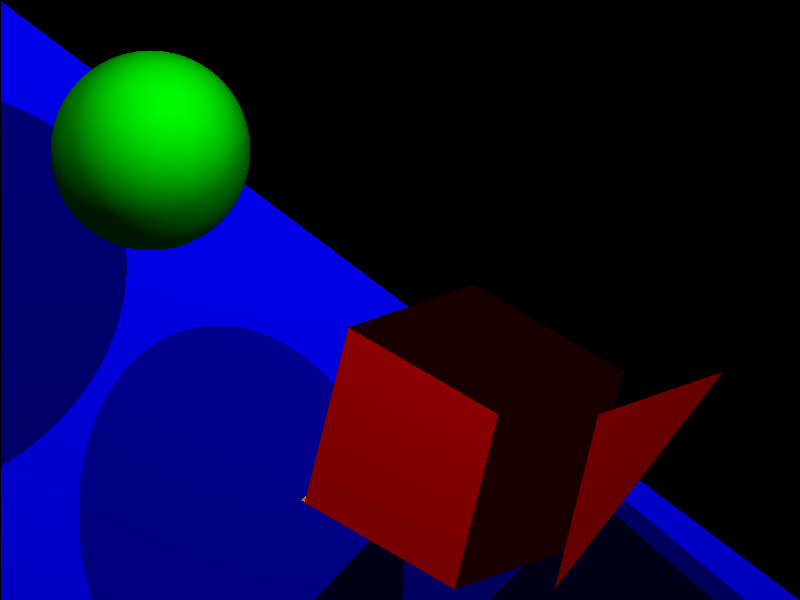
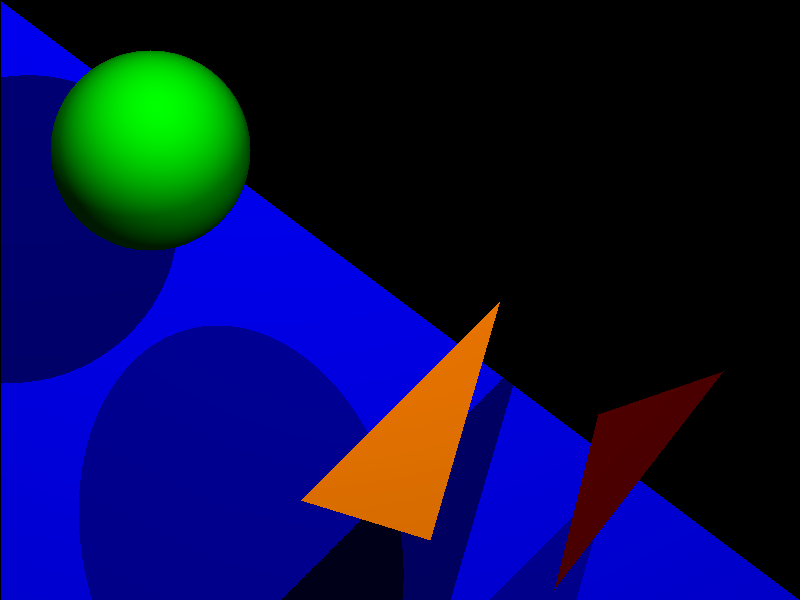
generalize implementation for both triangles and spheres

Changed region(s): [[0.3438, 0.48, 0.9375, 1.0], [0.0, 0.12, 0.2188, 0.6], [0.0, 0.6, 0.125, 0.78]]

diff --git a/Commons/RayTracer.cs b/Commons/RayTracer.cs
@@ -23,12 +23,7 @@ public class RayTracer(List<IObject3D> sceneObjects, List<LightSource> lightSour
                 nearestIntersection = intersectionDistance;
                 var intersectionPoint = CalcHelper.IntersectionPoint(ray, intersectionDistance);
 
-                color = sceneObject switch
-                {
-                    ITriangleBased triangleBased => ColorTriangleBased(triangleBased, intersectionPoint),
-                    Sphere sphere => ColorSphere(sphere, intersectionPoint),
-                    _ => color
-                };
+                color = CalcColor(sceneObject, intersectionPoint);
                 color += sceneObject.Color * AmbientLight;
             }
         }
@@ -36,37 +31,18 @@ public class RayTracer(List<IObject3D> sceneObjects, List<LightSource> lightSour
         return color;
     }
 
-    private RgbColor ColorSphere(Sphere sphere, Vector3D intersectionPoint)
+    private RgbColor CalcColor(IObject3D sceneObject, Vector3D intersectionPoint)
     {
         var color = RgbColor.Black;
         foreach (var lightSource in LightSources)
         {
             var vectorToLightSource = (lightSource.Position - intersectionPoint).Normalize();
-            var intersectionPointIsInShadow = CheckRayIntersectionWithOtherObjects(vectorToLightSource, intersectionPoint, lightSource, sphere);
+            var intersectionPointIsInShadow = CheckRayIntersectionWithOtherObjects(vectorToLightSource, intersectionPoint, lightSource, sceneObject);
 
             if (!intersectionPointIsInShadow)
             {
-                var normalized = (intersectionPoint - sphere.Center).Normalize();
-                var colorFactor = Math.Max(0, normalized.ScalarProduct(vectorToLightSource));
-                color += sphere.Color * lightSource.Color * colorFactor * lightSource.Intensity;
-            }
-        }
-
-        return color;
-    }
-
-    private RgbColor ColorTriangleBased(ITriangleBased triangleBased, Vector3D intersectionPoint)
-    {
-        var color = RgbColor.Black;
-        foreach (var lightSource in LightSources)
-        {
-            var vectorToLightSource = (lightSource.Position - intersectionPoint).Normalize();
-            var intersectionPointIsInShadow = CheckRayIntersectionWithOtherObjects(vectorToLightSource, intersectionPoint, lightSource, triangleBased);
-
-            if (!intersectionPointIsInShadow)
-            {
-                var colorFactor = Math.Max(0, triangleBased.Normalized.ScalarProduct(vectorToLightSource));
-                color += triangleBased.Color * lightSource.Color * colorFactor * lightSource.Intensity;
+                var colorFactor = Math.Max(0, sceneObject.Normalized.ScalarProduct(vectorToLightSource));
+                color += sceneObject.Color * lightSource.Color * colorFactor * lightSource.Intensity;
             }
         }
 
@@ -76,8 +52,9 @@ public class RayTracer(List<IObject3D> sceneObjects, List<LightSource> lightSour
     private bool CheckRayIntersectionWithOtherObjects(Vector3D vectorToLightSource, Vector3D intersectionPoint, LightSource lightSource, IObject3D self)
     {
         var intersectionPointIsInShadow = false;
-        var rayToLightSource = new Ray(intersectionPoint + vectorToLightSource * MathConstants.Epsilon, vectorToLightSource);
         var distanceToLightSource = Math.Abs((intersectionPoint - lightSource.Position).Length);
+        var rayToLightSource = new Ray(intersectionPoint + vectorToLightSource * MathConstants.Epsilon, vectorToLightSource);
+        //var rayToLightSource = new Ray(Offset(intersectionPoint, self.Normalized), vectorToLightSource);
         foreach (var sceneObject in SceneObjects)
         {
             if (sceneObject == self && sceneObject is Sphere) continue; // TODO this is a workaround because sphere intersects itself at the moment
@@ -94,5 +71,28 @@ public class RayTracer(List<IObject3D> sceneObjects, List<LightSource> lightSour
         }
 
         return intersectionPointIsInShadow;
+    }
+
+    private Vector3D Offset(Vector3D location, Vector3D normal) // TODO doesnt work correctly
+    {
+        var normalMultiplier = 256.0f;
+        var minDistance = 1 / 32; // if value is smaller than this, precision needs to be handled
+        var precisionOffset = 1 / ushort.MaxValue; // offset value to handle errors in precision if value is smaller than minDistance
+
+        // multiply normal to get it to a scale that works for the calculations
+        var offset = new Vector3D(normal.X * normalMultiplier, normal.Y * normalMultiplier, normal.Z * normalMultiplier);
+
+        // add or subtract offset value depending on location being positive or negative
+        var locationWithOffset = new Vector3D(
+            location.X + (location.X < 0 ? -offset.X : offset.X),
+            location.Y + (location.Y < 0 ? -offset.Y : offset.Y),
+            location.Z + (location.Z < 0 ? -offset.Z : offset.Z)
+        );
+
+        return new Vector3D(
+            Math.Abs(location.X) < minDistance ? location.X + precisionOffset * normal.X : locationWithOffset.X,
+            Math.Abs(location.Y) < minDistance ? location.Y + precisionOffset * normal.Y : locationWithOffset.Y,
+            Math.Abs(location.Z) < minDistance ? location.Z + precisionOffset * normal.Z : locationWithOffset.Z
+        );
     }
 }

diff --git a/Commons/3D/Sphere.cs b/Commons/3D/Sphere.cs
@@ -5,6 +5,7 @@ public class Sphere(Vector3D center, int radius, RgbColor color) : IObject3D
     public Vector3D Center => center;
     public int Radius => radius;
     public RgbColor Color => color;
+    public Vector3D Normalized { get; set; } = new(0, 0, 0);
 
     public (bool hasHit, double intersectionDistance) NextIntersection(Ray ray)
     {
@@ -23,6 +24,10 @@ public class Sphere(Vector3D center, int radius, RgbColor color) : IObject3D
         var x1 = (-b + Math.Sqrt(discriminant)) / (2 * a);
         var x2 = (-b - Math.Sqrt(discriminant)) / (2 * a);
 
-        return (true, x1 < x2 ? x1 : x2);
+        var intersectionDistance = x1 < x2 ? x1 : x2;
+
+        Normalized = (ray.Origin + ray.Direction * intersectionDistance - Center).Normalize();
+
+        return (true, intersectionDistance);
     }
 }

diff --git a/random-pixel-image/obj/Debug/net9.0/random-pixel-image.AssemblyInfo.cs b/random-pixel-image/obj/Debug/net9.0/random-pixel-image.AssemblyInfo.cs
@@ -13,7 +13,7 @@ using System.Reflection;
 [assembly: System.Reflection.AssemblyCompanyAttribute("random-pixel-image")]
 [assembly: System.Reflection.AssemblyConfigurationAttribute("Debug")]
 [assembly: System.Reflection.AssemblyFileVersionAttribute("1.0.0.0")]
-[assembly: System.Reflection.AssemblyInformationalVersionAttribute("1.0.0+504eddddc8c716dfaa29cdcd97de07d3d9dd408f")]
+[assembly: System.Reflection.AssemblyInformationalVersionAttribute("1.0.0+be09d511b279b1091f90409e3310715eaad7a59e")]
 [assembly: System.Reflection.AssemblyProductAttribute("random-pixel-image")]
 [assembly: System.Reflection.AssemblyTitleAttribute("random-pixel-image")]
 [assembly: System.Reflection.AssemblyVersionAttribute("1.0.0.0")]

diff --git a/SimpleCircle/obj/Debug/net9.0/SimpleCircle.AssemblyInfo.cs b/SimpleCircle/obj/Debug/net9.0/SimpleCircle.AssemblyInfo.cs
@@ -13,7 +13,7 @@ using System.Reflection;
 [assembly: System.Reflection.AssemblyCompanyAttribute("SimpleCircle")]
 [assembly: System.Reflection.AssemblyConfigurationAttribute("Debug")]
 [assembly: System.Reflection.AssemblyFileVersionAttribute("1.0.0.0")]
-[assembly: System.Reflection.AssemblyInformationalVersionAttribute("1.0.0+504eddddc8c716dfaa29cdcd97de07d3d9dd408f")]
+[assembly: System.Reflection.AssemblyInformationalVersionAttribute("1.0.0+be09d511b279b1091f90409e3310715eaad7a59e")]
 [assembly: System.Reflection.AssemblyProductAttribute("SimpleCircle")]
 [assembly: System.Reflection.AssemblyTitleAttribute("SimpleCircle")]
 [assembly: System.Reflection.AssemblyVersionAttribute("1.0.0.0")]

diff --git a/Commons/3D/Cube.cs b/Commons/3D/Cube.cs
@@ -1,6 +1,6 @@
 namespace Commons._3D;
 
-public class Cube : ITriangleBased
+public class Cube : IObject3D
 {
     private readonly List<Triangle> _cubeFaces;
     private Vector3D _normalVector;
@@ -17,10 +17,9 @@ public class Cube : ITriangleBased
 
     public Vector3D Center { get; }
     public double Size { get; }
-    public RgbColor Color { get; }
     public double Rotation { get; }
-
-    public Vector3D Normalized => _normalVector != null ? _normalVector : throw new NullReferenceException();
+    public RgbColor Color { get; }
+    public Vector3D Normalized { get; set; }
 
     public (bool hasHit, double intersectionDistance) NextIntersection(Ray ray)
     {

diff --git a/Commons/3D/Triangle.cs b/Commons/3D/Triangle.cs
@@ -1,6 +1,6 @@
 namespace Commons._3D;
 
-public class Triangle : ITriangleBased
+public class Triangle : IObject3D
 {
     public Triangle(Vector3D a, Vector3D b, Vector3D c, RgbColor color)
     {
@@ -19,7 +19,7 @@ public class Triangle : ITriangleBased
     public Vector3D B { get; }
     public Vector3D C { get; }
     public RgbColor Color { get; }
-    public Vector3D Normalized { get; }
+    public Vector3D Normalized { get; set; }
 
     public (bool hasHit, double intersectionDistance) NextIntersection(Ray ray)
     {

diff --git a/Shadows/Program.cs b/Shadows/Program.cs
@@ -25,7 +25,7 @@ internal static class Program
     private static readonly List<LightSource> LightSources =
     [
         new(
-            new Vector3D(400, 0, -250),
+            new Vector3D(400, 0, -600),
             new RgbColor(0.5, 0.5, 0.5),
             1
         ),

diff --git a/Commons/3D/IObject3D.cs b/Commons/3D/IObject3D.cs
@@ -3,5 +3,6 @@
 public interface IObject3D
 {
     RgbColor Color { get; }
+    Vector3D Normalized { get; set; }
     (bool hasHit, double intersectionDistance) NextIntersection(Ray ray);
 }

diff --git a/Commons/3D/MathConstants.cs b/Commons/3D/MathConstants.cs
@@ -2,5 +2,5 @@
 
 public static class MathConstants
 {
-    public const double Epsilon = 1e-9;
+    public const double Epsilon = 1e-4;
 }
